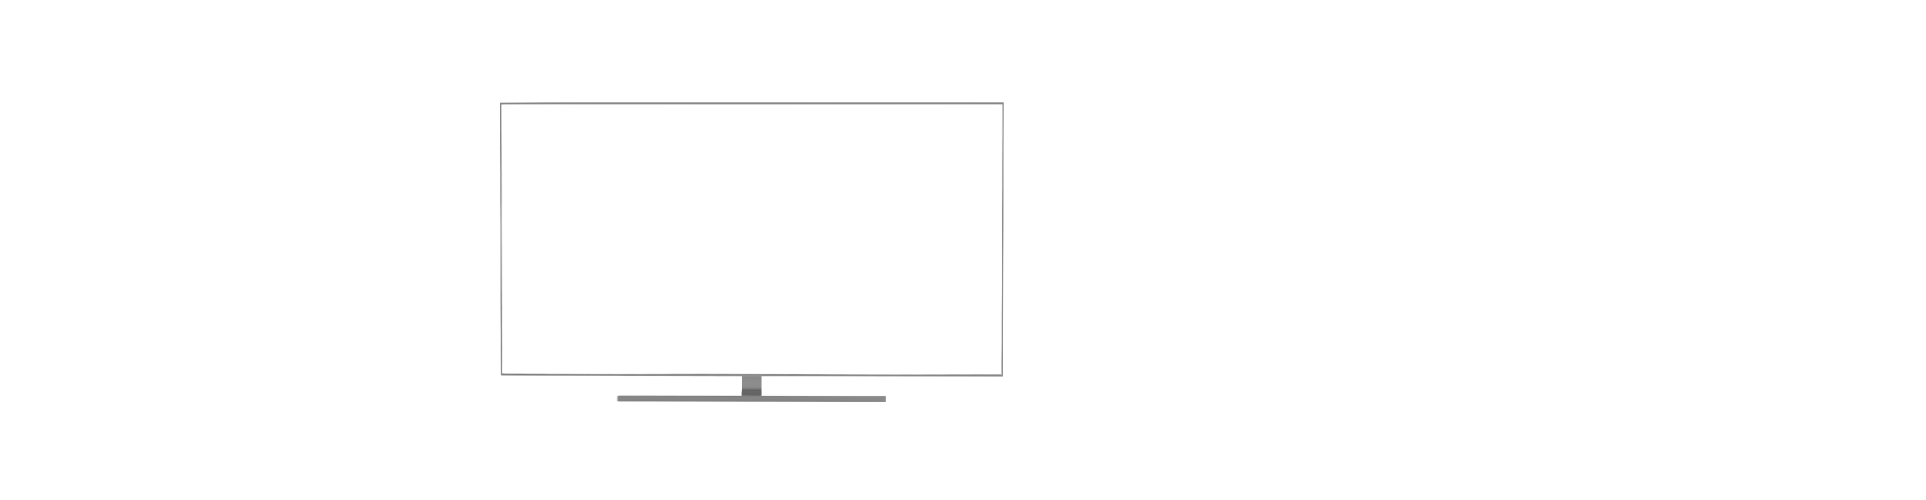
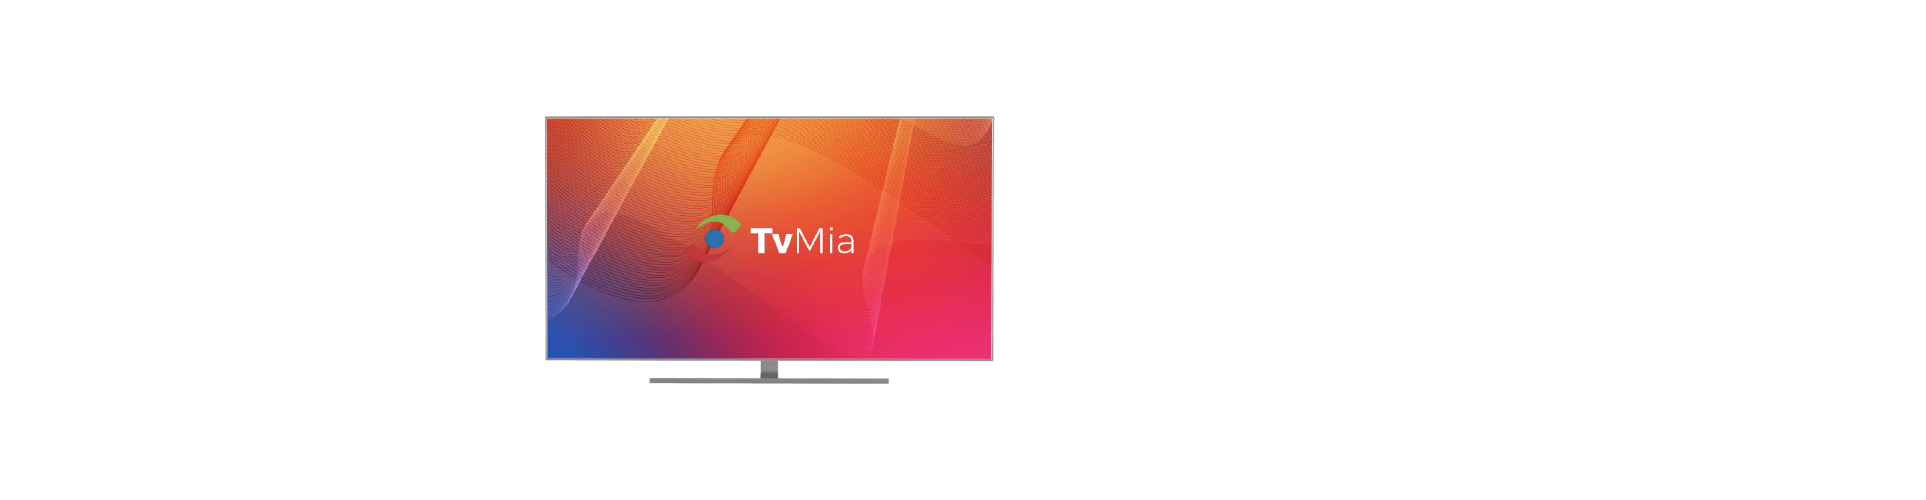
casi fimal

Changed region(s): [[0.2492, 0.18, 0.5296, 0.81]]

diff --git a/resources/views/home.blade.php b/resources/views/home.blade.php
@@ -15,15 +15,15 @@
                       <div class="container px-md-6">
                           <div class="max-w-500 space-top-3">
                               <div class="pt-2 mt-1">
-                                  <h6 class="product--title display-9 text-lh-1dot15 mb-0">
-                                      <a href="../single-video/single-video-v3.html">Te conectamos con tus programas preferidos </a>
+                                  <h6 class="product--title display-9 text-lh-1dot15 mb-0" style="color: white">
+                                      Te conectamos con tus programas preferidos
                                   </h6>
                                   <div class="row">
                                     <div class="col-lg-3 text-center">
-                                      <a href="#" class="button1">VER PLANES</a>
+                                      <a href="#pricing" class="button1">VER PLANES</a>
                                     </div>
                                     <div class="col-lg-3 text-center">
-                                      <a href="#" class="button2">+ INFO</a>
+                                      <a href="#quetvmia" class="button2">+ INFO</a>
                                     </div>
                                   </div>
                               </div>
@@ -43,19 +43,19 @@
               <!-- Nav tabs -->
               <ul class="nav nav-tabs" role="tablist">
                 <li class="nav-item">
-                  <a class="nav-link active" data-toggle="tab" href="#home">TODOS</a>
+                  <a class="nav-link active" data-toggle="tab" href="#home">ARGENTINA</a>
                 </li>
                 <li class="nav-item">
-                  <a class="nav-link" data-toggle="tab" href="#menu1">ARGENTINA</a>
-                </li>
-                <li class="nav-item">
-                  <a class="nav-link" data-toggle="tab" href="#menu2">COLOMBIA</a>
+                  <a class="nav-link" data-toggle="tab" href="#menu1">COLOMBIA</a>
                 </li>
                 <li class="nav-item">
                   <a class="nav-link" data-toggle="tab" href="#menu2">PERÚ</a>
                 </li>
                 <li class="nav-item">
                   <a class="nav-link" data-toggle="tab" href="#menu2">ESPAÑA</a>
+                </li>
+                <li class="nav-item">
+                  <a class="nav-link" data-toggle="tab" href="#menu2">TODOS</a>
                 </li>
               </ul>
 
@@ -286,7 +286,7 @@
         </div>
       </section>
 
-      <div class="bg-img-hero space-2 hideresp" style="background-image: url(img/bgsec1.jpg);">
+      <div class="bg-img-hero space-2 hideresp" id="quetvmia" style="background-image: url(img/bgsec1.jpg);">
           <div class="container px-md-4">
               <div class="row">
                   <div class="col-lg-6 col-xl-5 space-1">
@@ -295,7 +295,7 @@
                           <p class="text-gray-1800 mb-6 font-secondary d-block font-size-1 font-weight-medium">Tv Mia quiere que te sientas como en tu casa y puedas ver la programación de todos los canales de aire de tu pais y la puedas compartir con los tuyos, estés donde estés.</p>
                           <div class="row">
                             <div class="col-lg-3 text-center">
-                              <a href="#" class="button1">VER PLANES</a>
+                              <a href="#pricing" class="button1">VER PLANES</a>
                             </div>
                             <div class="col-lg-4 text-center">
                               <a href="#" class="button2">PRUEBA GRATIS</a>
@@ -329,7 +329,7 @@
                           <p class="text-gray-1800 mb-6 font-secondary d-block font-size-1 font-weight-medium">Tv Mia quiere que te sientas como en tu casa y puedas ver la programación de todos los canales de aire de tu pais y la puedas compartir con los tuyos, estés donde estés.</p>
                           <div class="row">
                             <div class="col-lg-3 text-center">
-                              <a href="#" class="button1">VER PLANES</a>
+                              <a href="#pricing" class="button1">VER PLANES</a>
                             </div>
                             <div class="col-lg-4 text-center">
                               <a href="#" class="button2">PRUEBA GRATIS</a>
@@ -365,14 +365,19 @@
           <div class="js-slick-carousel"
               data-hs-slick-carousel-options='{
                  "dots": true,
-                 "dotsClass": "slick-pagination slick-pagination-v1 mt-n5"
+                 "dotsClass": "slick-pagination slick-pagination-v1 mt-n5",
+                 "infinite": true
                }'>
               <div class="js-slide">
-                  <div style="background-image: url(img/dispsl1.png); height: 500px;">
+                  <div style="background-image: url(img/dispsl1.png); height: 500px;background-position: center">
                   </div>
               </div>
               <div class="js-slide">
-                  <div style="background-image: url(img/dispsl2.png); height: 500px;">
+                  <div style="background-image: url(img/dispsl2.png); height: 500px;background-position: center">
+                  </div>
+              </div>
+              <div class="js-slide">
+                  <div style="background-image: url(img/dispsl3.png); height: 500px;background-position: center">
                   </div>
               </div>
           </div>
@@ -436,7 +441,7 @@
                     </div>
                     <div class="font-secondary text-center space-1 bgbr mh">
                         <p class="mb-2 font-size-16-r">Incluye el contenido en vivo y en<br>
-                          Más de 80 canales!!!<br>
+                          Más de 200 canales!!!<br>
                             Incluye el contenido en vivo y en directo de los canales de:Argentina, Colombia, España, Perú, República Dominicana y nuevos canales de<br>
                             Entretenimiento<br>
                             Además puede ver el servicio también en su PC, tableta o teléfono inteligente.</p>
@@ -450,7 +455,7 @@
                         <p class="mb-2 font-size-16-r">Acceso ilimitado</p>
                     </div>
                     <div class="font-secondary text-center space-1 bgbr mh">
-                        <p class="mb-2 font-size-16-r">Más de 80 canales!!!<br>
+                        <p class="mb-2 font-size-16-r">Más de 200 canales!!!<br>
                           Incluye el contenido en vivo y en directo de los canales de:Argentina, Colombia, España, Perú, República Dominicana y nuevos canales de<br>
                           Entretenimiento<br>
                           Además puede ver el servicio también en su PC, tableta o teléfono inteligente.</p>
@@ -495,7 +500,10 @@
                             aria-labelledby="basicsHeadingOne"
                             data-parent="#basicsAccordion">
                             <div class="card-body px-md-14 pb-6d pt-0 mx-md-3 text-gray-7000">
-                                What forms of payment do you accept for VodiPremium?
+                              ¡Llevamos la televisión de aire de tu país en VIVO y en HD para verla donde más te guste!! <br>
+                                No debes modificar nada en tu casa, no debes contratar nada nuevo, no debes cambiar nada en tu actual servicio de cable o satélite. <br> ¡Te suscribes y quedas viendo!! <br>
+                                Además tendrás 30 días de prueba: SI NO TE GUSTA NO PAGAS <br>
+                                ¡YA PUEDES VER EN TUS PROPIOS EQUIPOS!! <br>
                             </div>
                         </div>
                     </div>
@@ -509,7 +517,7 @@
                                 data-target="#basicsCollapseTwo"
                                 aria-expanded="false"
                                 aria-controls="basicsCollapseTwo">
-                                ¿Cuáles son concretamente los productos o servicios ofrecidos?
+                                ¿Puedo verlo en todos los dispositivos?
 
                                 <span class="card-btn-toggle order-n1 mr-md-8 mr-3">
                                     <span class="card-btn-toggle-default">
@@ -529,7 +537,8 @@
                             aria-labelledby="basicsHeadingTwo"
                             data-parent="#basicsAccordion">
                             <div class="card-body px-md-14 pb-6d pt-0 mx-md-3 text-gray-7000">
-                              Ofrecemos la Caja con TVmia dando el acceso a toda nuestra programación que incluye Canales en Vivo y en Directo por país (Argentina, Colombia y Perú), entretenimiento para adultos, canales de interés general, películas, series varias y más de 500 canales adicionales. El costo es de US$20 por mes (más TAX). La caja la entregamos por solo US$ 60, cantidad que incluye el envío dentro de los Estados Unidos. Para todos aquellos que no deseen adquirir esta caja conversora, brindamos solamente la versión WEB, con acceso a la misma programación a través de PC, Mac, iPad e iPhone.
+                              ¡YA PUEDES VER EN TUS PROPIOS EQUIPOS!! <br>
+Inmediatamente quedarás habilitado para ver en tus propios equipos los canales legales y gratuitamente de tu país, <br> ya sea con el conversor a tu TV, en tu tablet, PC, Mac o Teléfono.
                             </div>
                         </div>
                     </div>
@@ -543,7 +552,7 @@
                                 data-target="#basicsCollapseThree"
                                 aria-expanded="false"
                                 aria-controls="basicsCollapseThree">
-                                ¿Porqué contratar con TVmia con tanto disponible en la Internet y gratuito?
+                                ¿Cómo funciona?
 
                                 <span class="card-btn-toggle order-n1 mr-md-8 mr-3">
                                     <span class="card-btn-toggle-default">
@@ -563,7 +572,8 @@
                             aria-labelledby="basicsHeadingThree"
                             data-parent="#basicsAccordion">
                             <div class="card-body px-md-14 pb-6d pt-0 mx-md-3 text-gray-7000">
-                                Anim pariatur cliche reprehenderit, enim eiusmod high life accusamus terry richardson ad squid. 3 wolf moon officia aute, non cupidatat skateboard dolor brunch. Food truck quinoa nesciunt laborum eiusmod. Brunch 3 wolf moon tempor, sunt aliqua put a bird on it squid single-origin coffee nulla assumenda shoreditch et. Nihil anim keffiyeh helvetica, craft beer labore wes anderson cred nesciunt sapiente ea proident. Ad vegan excepteur butcher vice lomo. Leggings occaecat craft beer farm-to-table, raw denim aesthetic synth nesciunt you probably haven't heard of them accusamus labore sustainable VHS.
+                              Hemos instalado en tu país tu propia antena HD para recepcionar la programación legal y gratuita de todos tus canales. <br>
+La antena de tu país la conectamos a un convertidor (también tuyo) y te enviamos la señal en vivo por internet
                             </div>
                         </div>
                     </div>
@@ -577,7 +587,7 @@
                                 data-target="#basicsCollapseFour"
                                 aria-expanded="false"
                                 aria-controls="basicsCollapseFour">
-                                ¿Cómo me entero de los cambios o nuevos productos que se anuncien?
+                                ¿Qué cobramos?
 
                                 <span class="card-btn-toggle order-n1 mr-md-8 mr-3">
                                     <span class="card-btn-toggle-default">
@@ -597,7 +607,8 @@
                             aria-labelledby="basicsHeadingFour"
                             data-parent="#basicsAccordion">
                             <div class="card-body px-md-14 pb-6d pt-0 mx-md-3 text-gray-7000">
-                                Anim pariatur cliche reprehenderit, enim eiusmod high life accusamus terry richardson ad squid. 3 wolf moon officia aute, non cupidatat skateboard dolor brunch. Food truck quinoa nesciunt laborum eiusmod. Brunch 3 wolf moon tempor, sunt aliqua put a bird on it squid single-origin coffee nulla assumenda shoreditch et. Nihil anim keffiyeh helvetica, craft beer labore wes anderson cred nesciunt sapiente ea proident. Ad vegan excepteur butcher vice lomo. Leggings occaecat craft beer farm-to-table, raw denim aesthetic synth nesciunt you probably haven't heard of them accusamus labore sustainable VHS.
+                              Cobramos en la mensualidad el pago de tu equipo y el uso de internet. <br>
+                                No cobramos por los canales
                             </div>
                         </div>
                     </div>
@@ -762,4 +773,5 @@ var megaMenu = new HSMegaMenu($('.js-mega-menu'), {
 // initialization of unfold
 var unfold = new HSUnfold('.js-hs-unfold-invoker').init();
 </script>
+
 @endsection

diff --git a/resources/views/partials/header.blade.php b/resources/views/partials/header.blade.php
@@ -84,17 +84,19 @@
                             <li class="col pr-xl-0 px-2 px-sm-3">
                                 <!-- Unfold (Dropdown) -->
                                 <div class="hs-unfold">
-                                    <a class="js-hs-unfold-invoker dropdown-nav-link dropdown-toggle py-4 position-relative d-flex align-items-center" href="javascript:;"
-                                        data-hs-unfold-options='{
-                                            "target": "#basicDropdownHover",
-                                            "type": "css-animation",
-                                            "event": "click"
-                                        }'>
+                                    <a  class="dropdown-item" href="javascript:;" data-toggle="modal" data-target="#loginModal">
                                         <svg width="32px" height="32px">
[1 lines of base64/hex data omitted]
                                             </image>
                                         </svg>
                                     </a>
+
+                                    <div id="basicDropdownHover" class="hs-unfold-content dropdown-menu my-account-dropdown">
+                                        <!-- Modal Trigger -->
+                                        <a class="dropdown-item" href="javascript:;" data-toggle="modal" data-target="#loginModal">Sign in</a>
+                                        <a class="dropdown-item" href="javascript:;" data-toggle="modal" data-target="#loginModal">Register</a>
+                                        <!-- End Modal Trigger -->
+                                    </div>
                                 </div>
                                 <!-- End Unfold (Dropdown) -->
                             </li>
@@ -123,8 +125,8 @@
                     <div id="login">
                         <!-- Title -->
                         <div class="text-center mb-7">
-                            <h3 class="mb-0">Sign In to Vodi</h3>
-                            <p>Login to manage your account.</p>
+                            <h3 class="mb-0">Ingresa en TvMia.</h3>
+                            <p>Ingresá para ver tu cuenta.</p>
                         </div>
                         <!-- End Title -->
 
@@ -153,32 +155,32 @@
                                 data-hs-show-animation-options='{
                                     "targetSelector": "#forgotPassword",
                                     "groupName": "idForm"
-                                }'>Forgot Password?
+                                }'>¿Olvidaste tu contraseña?
                             </a>
                         </div>
 
                         <div class="mb-3">
-                            <button type="submit" class="btn btn-sm btn-primary btn-block">Sign In</button>
+                            <button type="submit" class="btn btn-sm btn-primary btn-block">Ingresar</button>
                         </div>
 
                         <div class="text-center mb-3">
-                            <span class="divider divider-xs divider-text">OR</span>
+                            <span class="divider divider-xs divider-text">O</span>
                         </div>
 
                         <a class="btn btn-sm btn-ghost-secondary btn-block mb-2" href="#">
                             <span class="d-flex justify-content-center align-items-center">
                                 <i class="fab fa-google mr-2"></i>
-                                Sign In with Google
+                                Ingresar con Google
                             </span>
                         </a>
 
                         <div class="text-center">
-                            <span class="small text-muted">Do not have an account?</span>
+                            <span class="small text-muted">¿Aun no tenes cuenta?</span>
                             <a class="js-animation-link small font-weight-bold" href="javascript:;"
                                 data-hs-show-animation-options='{
                                     "targetSelector": "#signup",
                                     "groupName": "idForm"
-                                }'>Sign Up
+                                }'>¡Registrate ahora!
                             </a>
                         </div>
                     </div>

diff --git a/resources/views/partials/head.blade.php b/resources/views/partials/head.blade.php
@@ -1,6 +1,6 @@
 <head>
     <!-- Title -->
-    <title>Landing Page | Vodi - Responsive Website Template</title>
+    <title>TvMia.</title>
 
     <!-- Required Meta Tags Always Come First -->
     <meta charset="utf-8">
